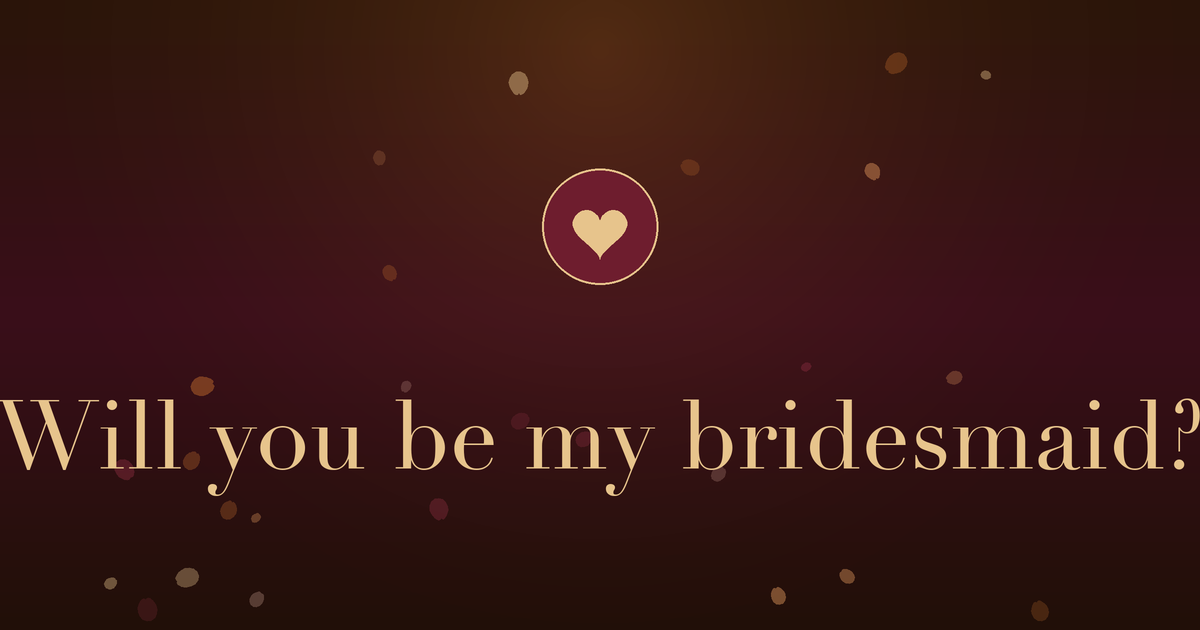
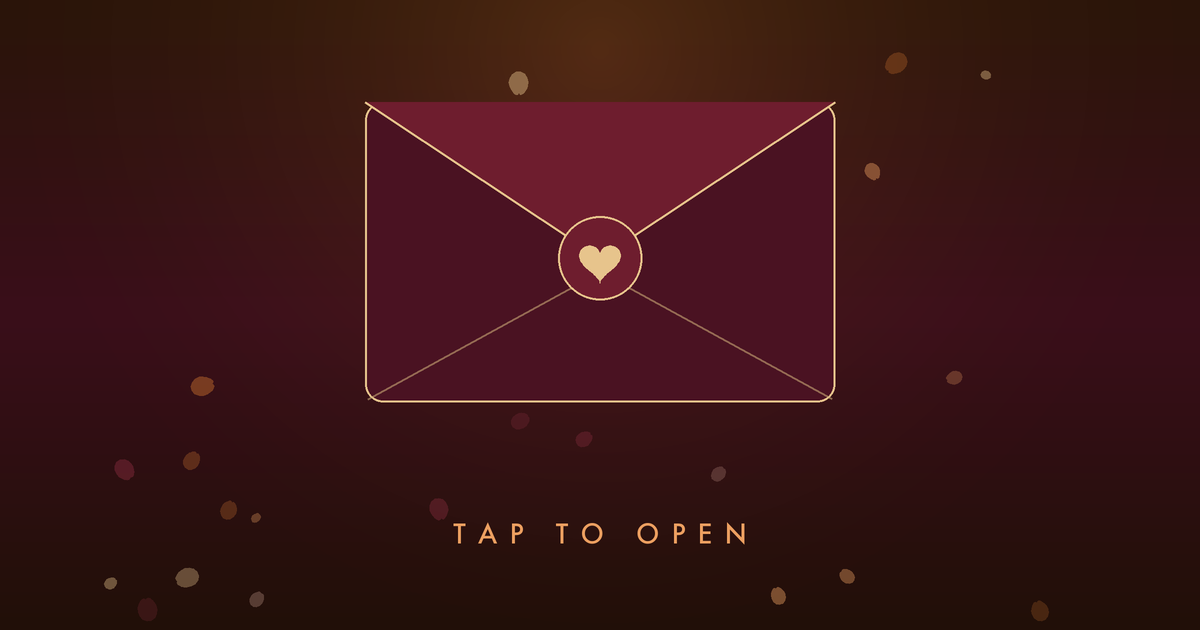
Redesign share card as sealed envelope (no bridesmaid spoiler)

diff --git a/make_og.py b/make_og.py
@@ -83,22 +83,40 @@ def center_text(y, text, font, fill, tracking=0):
         x += w + tracking * SS
     return total
 
-# --- wax seal with a heart ---
-scx, scy, sr = W * SS // 2, int(0.36 * H * SS), 58 * SS
-d.ellipse([scx - sr, scy - sr, scx + sr, scy + sr], fill=(110, 29, 46))
-d.ellipse([scx - sr, scy - sr, scx + sr, scy + sr], outline=GOLD, width=2 * SS)
-# parametric heart, gold
-scale = 1.7 * SS
+# --- sealed envelope illustration (reveals nothing) ---
+cx = W * SS // 2
+ecy = int(0.40 * H * SS)
+EW, EH = 470 * SS, 300 * SS
+ex0, ey0 = cx - EW // 2, ecy - EH // 2
+ex1, ey1 = cx + EW // 2, ecy + EH // 2
+
+# body
+d.rounded_rectangle([ex0, ey0, ex1, ey1], radius=18 * SS, fill=(74, 18, 34), outline=GOLD, width=2 * SS)
+# pocket V lines from bottom corners toward centre
+tip = ecy + 20 * SS
+d.line([(ex0 + 3 * SS, ey1 - 3 * SS), (cx, tip)], fill=(201, 168, 118, 150), width=2 * SS)
+d.line([(ex1 - 3 * SS, ey1 - 3 * SS), (cx, tip)], fill=(201, 168, 118, 150), width=2 * SS)
+# closed flap (triangle pointing down to centre)
+flap_tip = ecy + 6 * SS
+d.polygon([(ex0, ey0), (ex1, ey0), (cx, flap_tip)], fill=(110, 29, 46))
+d.line([(ex0, ey0), (cx, flap_tip), (ex1, ey0)], fill=GOLD, width=2 * SS)
+
+# heart wax seal at the flap tip
+sr = 42 * SS
+scy = flap_tip
+d.ellipse([cx - sr, scy - sr, cx + sr, scy + sr], fill=(110, 29, 46))
+d.ellipse([cx - sr, scy - sr, cx + sr, scy + sr], outline=GOLD, width=2 * SS)
+scale = 1.3 * SS
 hpts = []
 for i in range(0, 361, 4):
     t = math.radians(i)
-    hx = scx + scale * 16 * (math.sin(t) ** 3)
-    hy = scy - scale * (13 * math.cos(t) - 5 * math.cos(2 * t) - 2 * math.cos(3 * t) - math.cos(4 * t)) + 4 * SS
+    hx = cx + scale * 16 * (math.sin(t) ** 3)
+    hy = scy - scale * (13 * math.cos(t) - 5 * math.cos(2 * t) - 2 * math.cos(3 * t) - math.cos(4 * t)) + 3 * SS
     hpts.append((hx, hy))
 d.polygon(hpts, fill=GOLD)
 
-# --- the question (gilded) ---
-center_text(int(0.60 * H * SS), "Will you be my bridesmaid?", f_q, GOLD)
+# --- caption ---
+center_text(int(0.82 * H * SS), "TAP TO OPEN", f_eyebrow, ORANGE, tracking=12)
 
 # --- downsample ---
 final = img.resize((W, H), Image.LANCZOS)
